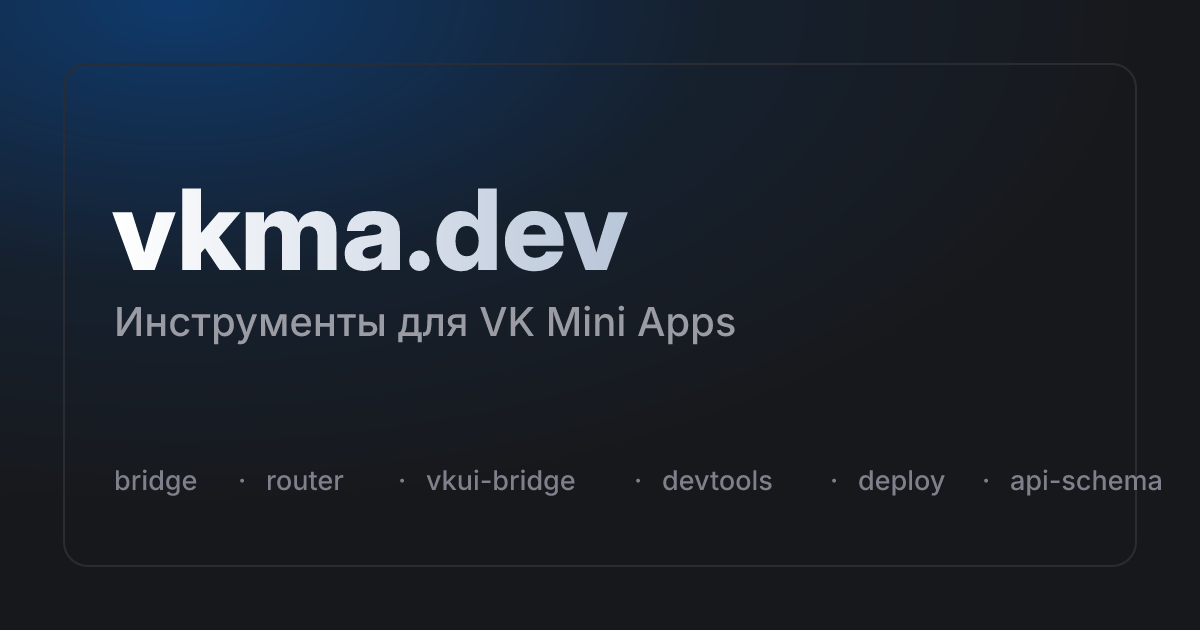
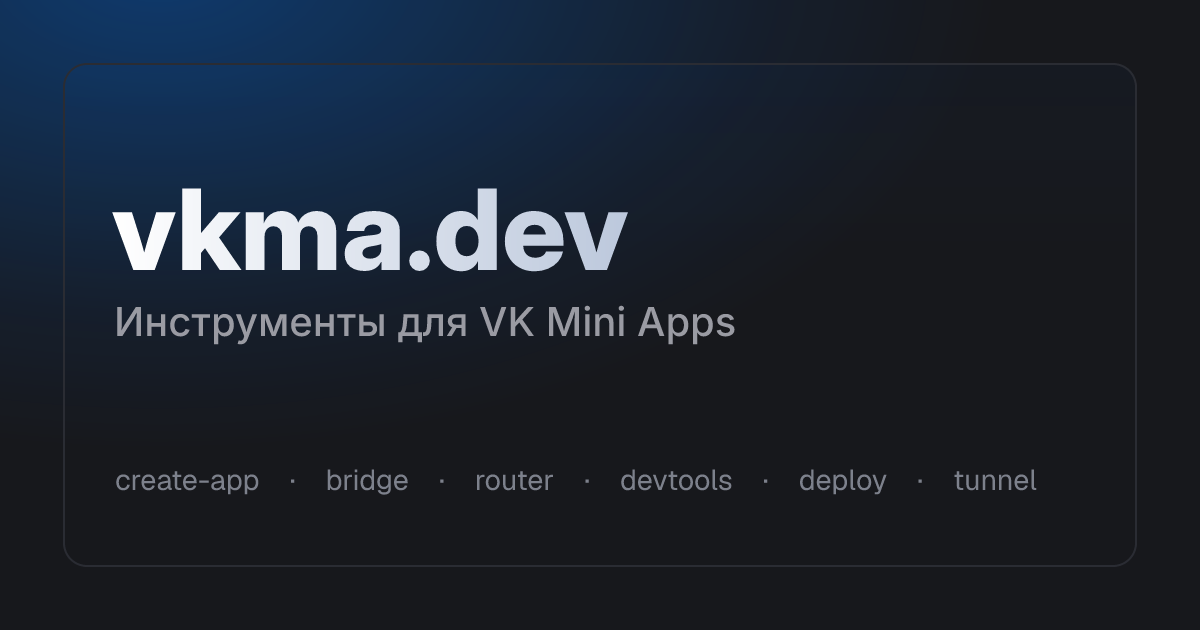
docs(site): og.png comes from a template, roster updated
public/og.png had no source. It was committed once, so a change to
the package list meant drawing over the raster. The roster was also
out of date: no tunnel, no create-app, and vkui-bridge and
api-schema listed.

scripts/og.html now holds the card, and `pnpm og` renders it with
takumi-js. The template reproduces the committed image. The title
and the subtitle land on the same pixels as before, and the glow,
the frame and the roster line keep their measured colours and
positions. Two details came out of the measurements. The title is
Inter at its display optical size, so it takes the opsz file beside
the wght one the subtitle uses. The roster is Geist, takumi's
built-in font.

The roster reads create-app, bridge, router, devtools, deploy and
tunnel, in the sidebar's order. It now ends inside the frame; on
the old image it ran 24px past the right border.

tests/og.test.ts renders the template and compares the bytes with
the committed PNG. The render is deterministic across runs, so a
stale image fails with a pointer to `pnpm og`.

Changed region(s): [[0.5242, 0.754, 0.9867, 0.7841], [0.0925, 0.754, 0.4933, 0.7841]]

diff --git a/apps/docs/scripts/og.html b/apps/docs/scripts/og.html
@@ -1,0 +1,92 @@
+<!--
+  The social preview card: the 1200x630 image astro.config.mjs points
+  og:image and twitter:image at. `pnpm og` renders this file to
+  public/og.png. Edit it here, rerun, commit the PNG.
+
+  scripts/og.mjs registers the fonts by family name, so there is no
+  @font-face here. Inter comes from the @fontsource-variable package the
+  site loads; Geist is takumi's built-in.
+-->
+<style>
+	.canvas {
+		position: relative;
+		width: 100%;
+		height: 100%;
+		overflow: hidden;
+		background-color: #17181c;
+	}
+	/* The site's blue, a wide ellipse above the top edge. */
+	.glow {
+		position: absolute;
+		inset: 0;
+		background: radial-gradient(
+			841px 483px at 159px -33px,
+			rgba(0, 119, 255, 0.36) 0%,
+			rgba(0, 119, 255, 0.2) 40%,
+			rgba(0, 119, 255, 0.07) 72%,
+			rgba(0, 119, 255, 0) 100%
+		);
+	}
+	.card {
+		position: absolute;
+		left: 63px;
+		top: 63px;
+		width: 1074px;
+		height: 504px;
+		box-sizing: border-box;
+		border: 2px solid #2a2c33;
+		border-radius: 24px;
+		background: linear-gradient(rgba(0, 119, 255, 0.028), rgba(0, 119, 255, 0) 38%);
+	}
+	/* Inter at its display optical size (the opsz file), as on the card before. */
+	.title {
+		position: absolute;
+		left: 112px;
+		top: 173px;
+		font-family: Inter Display;
+		font-size: 112px;
+		font-weight: 800;
+		line-height: 1;
+		background-image: linear-gradient(90deg, #ffffff, #bcc8dc);
+		background-clip: text;
+		color: transparent;
+	}
+	.subtitle {
+		position: absolute;
+		left: 114px;
+		top: 302px;
+		font-family: Inter;
+		font-size: 40px;
+		font-weight: 500;
+		line-height: 1;
+		color: #9a9ba3;
+	}
+	/*
+    The roster, in the sidebar's order (sections.mjs). To change it, edit
+    the words between the separators.
+  */
+	.roster {
+		position: absolute;
+		left: 115px;
+		top: 466px;
+		font-family: Geist;
+		font-size: 28.8px;
+		font-weight: 400;
+		line-height: 1;
+		color: #7d818c;
+	}
+	.roster i {
+		font-style: normal;
+		margin: 0 30px;
+	}
+</style>
+
+<div class="canvas">
+	<div class="glow"></div>
+	<div class="card"></div>
+	<div class="title">vkma.dev</div>
+	<div class="subtitle">Инструменты для VK Mini Apps</div>
+	<div class="roster">
+		create-app<i>·</i>bridge<i>·</i>router<i>·</i>devtools<i>·</i>deploy<i>·</i>tunnel
+	</div>
+</div>

diff --git a/apps/docs/tests/og.test.ts b/apps/docs/tests/og.test.ts
@@ -1,0 +1,22 @@
+// Keeps public/og.png in step with its template: the committed image must
+// be what scripts/og.html renders today. `pnpm og` rewrites it.
+import { readFile } from "node:fs/promises";
+import { expect, it } from "vitest";
+import { OG_HEIGHT, OG_WIDTH, renderOgImage } from "../scripts/og.mjs";
+
+const committed = new URL("../public/og.png", import.meta.url);
+
+it("public/og.png is what scripts/og.html renders", async () => {
+	const rendered = Buffer.from(await renderOgImage());
+	expect(
+		(await readFile(committed)).equals(rendered),
+		"public/og.png is stale: run `pnpm og` after changing scripts/og.html",
+	).toBe(true);
+});
+
+it("the card is 1200x630, the size astro.config.mjs declares", async () => {
+	// PNG header: width at bytes 16-19, height at 20-23, big-endian.
+	const bytes = new Uint8Array(await renderOgImage());
+	const header = new DataView(bytes.buffer, bytes.byteOffset, bytes.byteLength);
+	expect([header.getUint32(16), header.getUint32(20)]).toEqual([OG_WIDTH, OG_HEIGHT]);
+});

diff --git a/AGENTS.md b/AGENTS.md
@@ -12,7 +12,7 @@ Monorepo toolchain for VK Mini Apps. pnpm workspaces, TypeScript strict, ESM-onl
 - `packages/api-schema` — generated TS types + zod/valibot schemas for the VK API, built at build time from the `VKCOM/vk-api-schema` git submodule
 - `packages/protocol` — private: wire types (`WireEvent`, `ClientInfo`, …), the client palette, the launch-param curation (`LEGACY_LAUNCH_KEYS` + `isLaunchParamKey` — the only query keys a collector may ship, both the modern `vk_*` set and the legacy game params), zod trust-boundary schemas and `RELAY_CHANNEL`; consumed (and inlined) by devtools, ui and the extension
 - `packages/ui` — private, source-only: design tokens (Tailwind v4 CSS-first `styles.css`) + the presentational devtools panel components; data layers live with consumers
-- `apps/docs` — the vkma.dev docs site (Starlight on Astro, private): content lives ONLY in `src/content/docs/` (ru = root locale, `en/` = mirror), sidebar groups and llms.txt sections share `sections.mjs`, `pnpm build` runs `scripts/ai-endpoints.mjs` which emits byte-exact `/foo.md` page copies + `llms.txt`/`llms-full.txt` (contract-tested in `tests/`; run a build before `pnpm test`), deploy = Cloudflare Workers static assets via Workers Builds (no GH Actions deploy job)
+- `apps/docs` — the vkma.dev docs site (Starlight on Astro, private): content lives ONLY in `src/content/docs/` (ru = root locale, `en/` = mirror), sidebar groups and llms.txt sections share `sections.mjs`, `pnpm build` runs `scripts/ai-endpoints.mjs` which emits byte-exact `/foo.md` page copies + `llms.txt`/`llms-full.txt` (contract-tested in `tests/`; run a build before `pnpm test`), `public/og.png` is rendered from `scripts/og.html` (`pnpm og`; `tests/og.test.ts` fails when they differ), deploy = Cloudflare Workers static assets via Workers Builds (no GH Actions deploy job)
 - `apps/devtools-extension` — browser extension (rsbuild + React, MV3 chrome-first + firefox manifests, `web-ext` to run/pack): the vkma.dev panel on arbitrary vk.ru pages, direct-connect or spy mode (see its section below)
 - `apps/inspect` — remote inspector (rsbuild two-pass): the panel at `/` + the single-file `/inspector.js?id=<peer id>` pasted into mini app pages (phone webviews, prod builds, third-party apps); PeerJS signaling + WebRTC data, no dev server, no extension (see its section below)
 - `playground/` (Vite) — the single permanent manual-e2e app: a planner exercising router, VKUI, bridge, devtools, api-schema and deploy (direct `@vkma.dev/bridge`; `VKMA_MCP=1` enables the MCP route). Rsbuild manual e2e uses the disposable stand started by `pnpm --filter @vkma.dev/devtools playground:rsbuild`; no second app is checked in

diff --git a/apps/docs/README.md b/apps/docs/README.md
@@ -5,3 +5,6 @@ locale) + en (`/en`), deployed to Cloudflare Workers static assets via Workers
 Builds. `pnpm build` also runs `scripts/ai-endpoints.mjs`, which adds byte-exact
 `.md` copies of every page plus `llms.txt` / `llms-full.txt` (see
 `tests/ai-endpoints.test.ts`).
+
+`public/og.png` is rendered from `scripts/og.html` with takumi-js. `pnpm og` rewrites it, and
+`tests/og.test.ts` fails when the committed image is not what the template renders.
